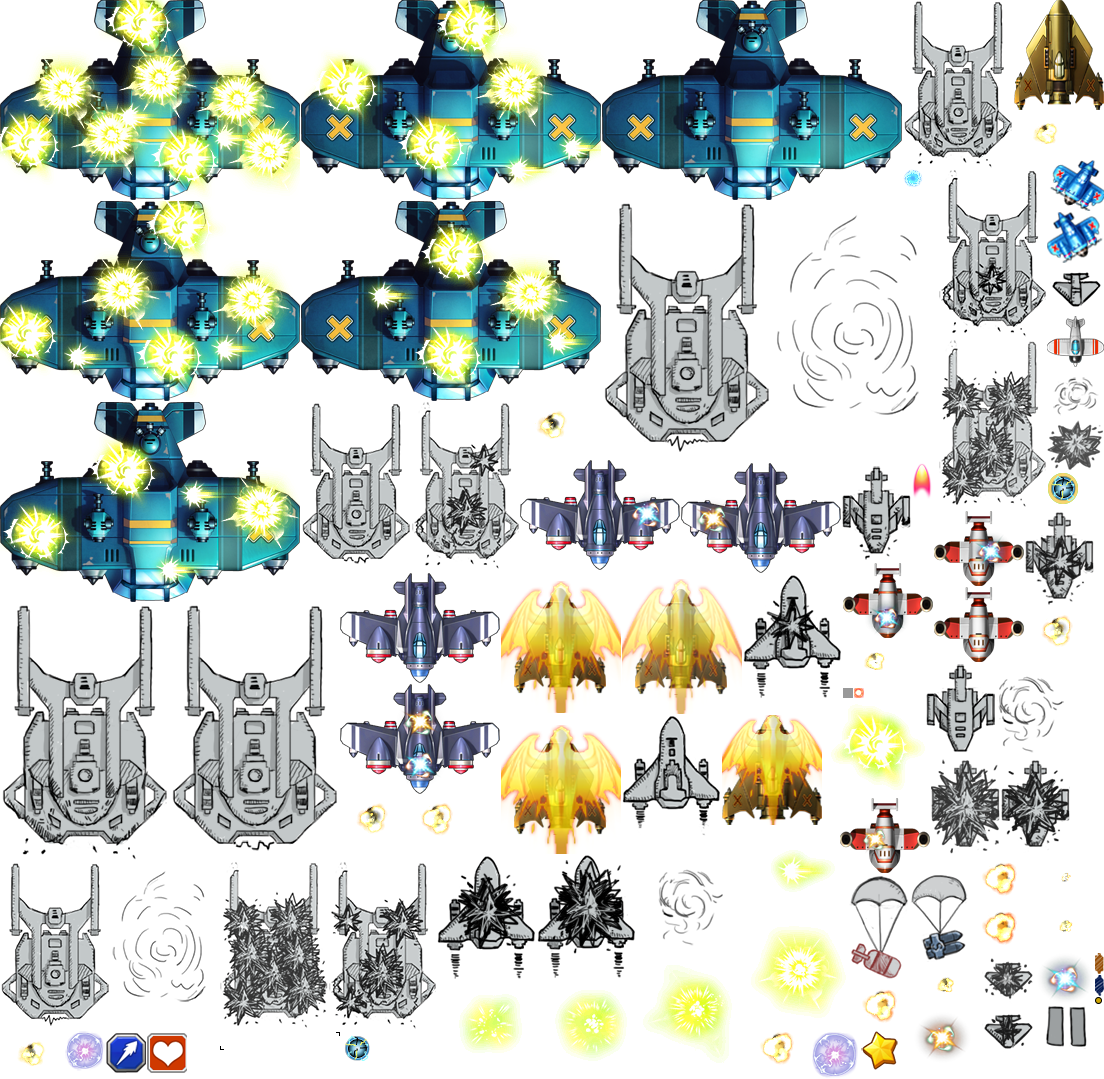
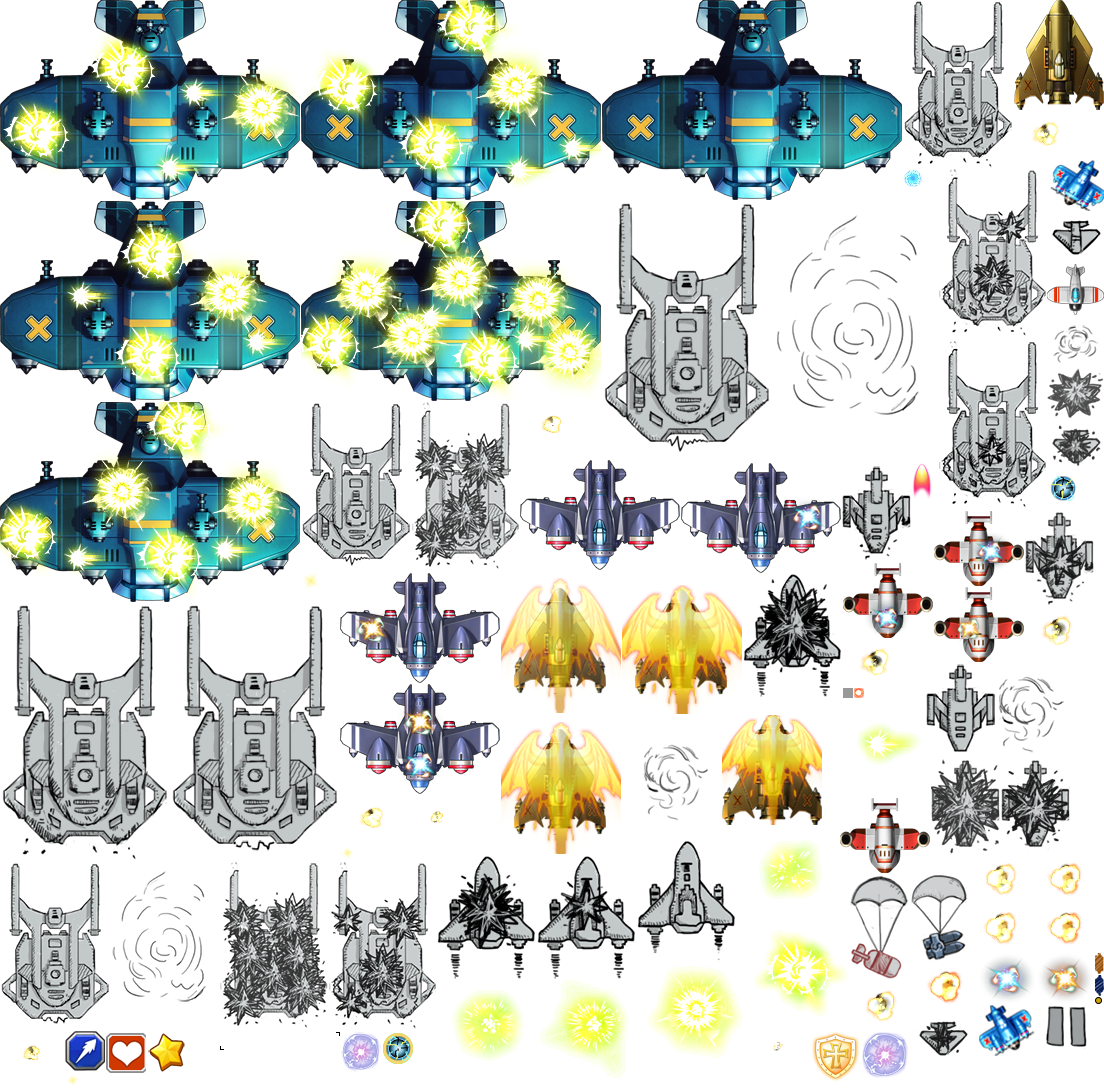
无敌

diff --git a/src/obj/role/hero/Hero.js b/src/obj/role/hero/Hero.js
@@ -33,7 +33,8 @@ var Hero = (function (_super) {
         this.boomNum = 10;
         
         this.state = this.STATE.NORMAL;
-
+        this.width = 0;
+        this.height = 0;
         // 无敌时间
         this.invincibleTime = 0;
 
@@ -76,6 +77,8 @@ var Hero = (function (_super) {
         this.playAction("fly");
         var bound = this.body.getBounds();
         var newBound = bound.clone();
+        this.width = newBound.width;
+        this.height = newBound.height;
         newBound.setTo(newBound.x + this.widthFix, newBound.y + this.heightFix, newBound.width - 2 * this.widthFix, newBound.height - 2 * this.heightFix);
         this.setBounds(newBound);
 
@@ -235,10 +238,16 @@ var Hero = (function (_super) {
             if(--this.invincibleTime <= 0) {
                 this.state = this.STATE.NORMAL;
                 this.alpha = 1;
+            } else if (Laya.timer.currFrame % 3 == 0){
+                var effect = Laya.Pool.getItemByClass(EffectShine.prototype.className, EffectShine);
+                effect.init({x: this.x + (Math.random() - 0.5) * this.width, y:this.y + (Math.random() - 0.5) * this.height});
+                ObjectHolder.effectBox.addChild(effect);
             }
 
 
     }
+
+
 
     _proto.creatNomalBullet = function(){
         var bulletPos = HeroConfig.BULLET_POS[this.normalBulletNum - 1];

diff --git a/src/scene/LoadScene.js b/src/scene/LoadScene.js
@@ -164,6 +164,9 @@ var LoadScene = (function (_super) {
         Laya.Animation.createFrames(["resource/role/ufo2.png"],"ufo2_fly");
         //缓存升级球
         Laya.Animation.createFrames(["resource/role/upgrade.png"],"upgrade_fly");
+        //缓存无敌盾
+        Laya.Animation.createFrames(["resource/role/shield_item.png"],"shield_fly");
+
 		//缓存升级球
         Laya.Animation.createFrames(["resource/ui/hpLogo.png"],"heroHp_fly");
 
@@ -176,6 +179,13 @@ var LoadScene = (function (_super) {
         "resource/role/effect_spark6.png"
         ]
         ,"effect_spark");
+
+        //无敌闪光效果
+        Laya.Animation.createFrames(["resource/role/effect_shine1.png",
+        "resource/role/effect_shine2.png",
+        "resource/role/effect_shine3.png"
+        ]
+        ,"effect_shine");
 
 
         Laya.Animation.createFrames(["resource/role/hp_item.png"],"heroHp_fly");

diff --git a/bin/index.html b/bin/index.html
@@ -58,6 +58,7 @@
 	<script src="../src/obj/item/ItemBoom.js"></script>
 	<script src="../src/obj/item/ItemBullet.js"></script>
 	<script src="../src/obj/item/ItemInvincible.js"></script>
+	<script src="../src/obj/item/ItemShield.js"></script>
 
 	<script src="../src/obj/bar/Bar.js"></script>
 	<script src="../src/obj/bar/HpBar.js"></script>
@@ -84,6 +85,7 @@
 
 	<script src="../src/obj/effect/Effect.js"></script>
 	<script src="../src/obj/effect/EffectSpark.js"></script>
+	<script src="../src/obj/effect/EffectShine.js"></script>
 
 
 	<script src="../src/scene/EndScene.js"></script>

diff --git a/src/obj/effect/EffectShine.js b/src/obj/effect/EffectShine.js
@@ -1,0 +1,30 @@
+/*
+* name;
+*/
+var EffectShine = (function (_super) {
+    function EffectShine() {
+    }
+
+    Laya.class(EffectShine, "EffectShine", _super);
+
+    var _proto = EffectShine.prototype;
+
+    // 动画名
+    _proto.ani = 'effect_shine';
+
+    // 类名
+    _proto.className = 'EffectShine';
+
+    _proto.init = function(opts) {
+        _super.call(this, opts);
+        _super.prototype.init.call(this, opts);
+        
+    }
+
+    // _proto.play = function() {
+    //     _super.play.call(this);
+    // }
+
+    
+    return EffectShine;
+}(Effect));

diff --git a/src/obj/item/ItemShield.js b/src/obj/item/ItemShield.js
@@ -1,0 +1,30 @@
+/*
+* name;
+*/
+var ItemShield = (function (_super) {
+
+    function ItemShield() {
+
+    }
+
+    Laya.class(ItemShield, "ItemShield", _super);
+
+    var _proto = ItemShield.prototype;
+
+    // 类名
+    _proto.className = 'ItemShield';
+    // 动画前缀
+    _proto.aniPre = 'shield_';
+
+
+
+    _proto.init = function(opts) {
+        _super.call(this, opts);
+        _super.prototype.init.call(this, opts);
+    }
+
+
+    return ItemShield;
+
+
+}(Item));

diff --git a/bin/js/obj/bullet/enemy/EnemyBullet.js b/bin/js/obj/bullet/enemy/EnemyBullet.js
@@ -68,7 +68,7 @@ var EnemyBullet = (function (_super) {
         // this.graphics.drawRect(0, 0, 5, 5, 'black');  
         if (hero.getBounds().intersects(bound)) {
             this.impactedBy(hero);
-            hero.editHp(-this.atk);
+            hero.hitAction(-this.atk);
         }
     }
 

diff --git a/src/obj/bullet/enemy/EnemyBullet.js b/src/obj/bullet/enemy/EnemyBullet.js
@@ -82,7 +82,7 @@ var EnemyBullet = (function (_super) {
         bound.setTo(pos[0], pos[1], 5, 5);
         if (hero.getBounds().intersects(bound)) {
             this.impactedBy(hero);
-            hero.editHp(-this.atk);
+            // hero.editHp(-this.atk);
         }
     }
 

diff --git a/src/obj/item/ItemInvincible.js b/src/obj/item/ItemInvincible.js
@@ -14,7 +14,7 @@ var ItemInvincible = (function (_super) {
     // 类名
     _proto.className = 'ItemInvincible';
     // 动画前缀
-    _proto.aniPre = 'ufo1_';
+    _proto.aniPre = 'shield_';
 
     _proto.init = function(opts) {
         _super.call(this, opts);
